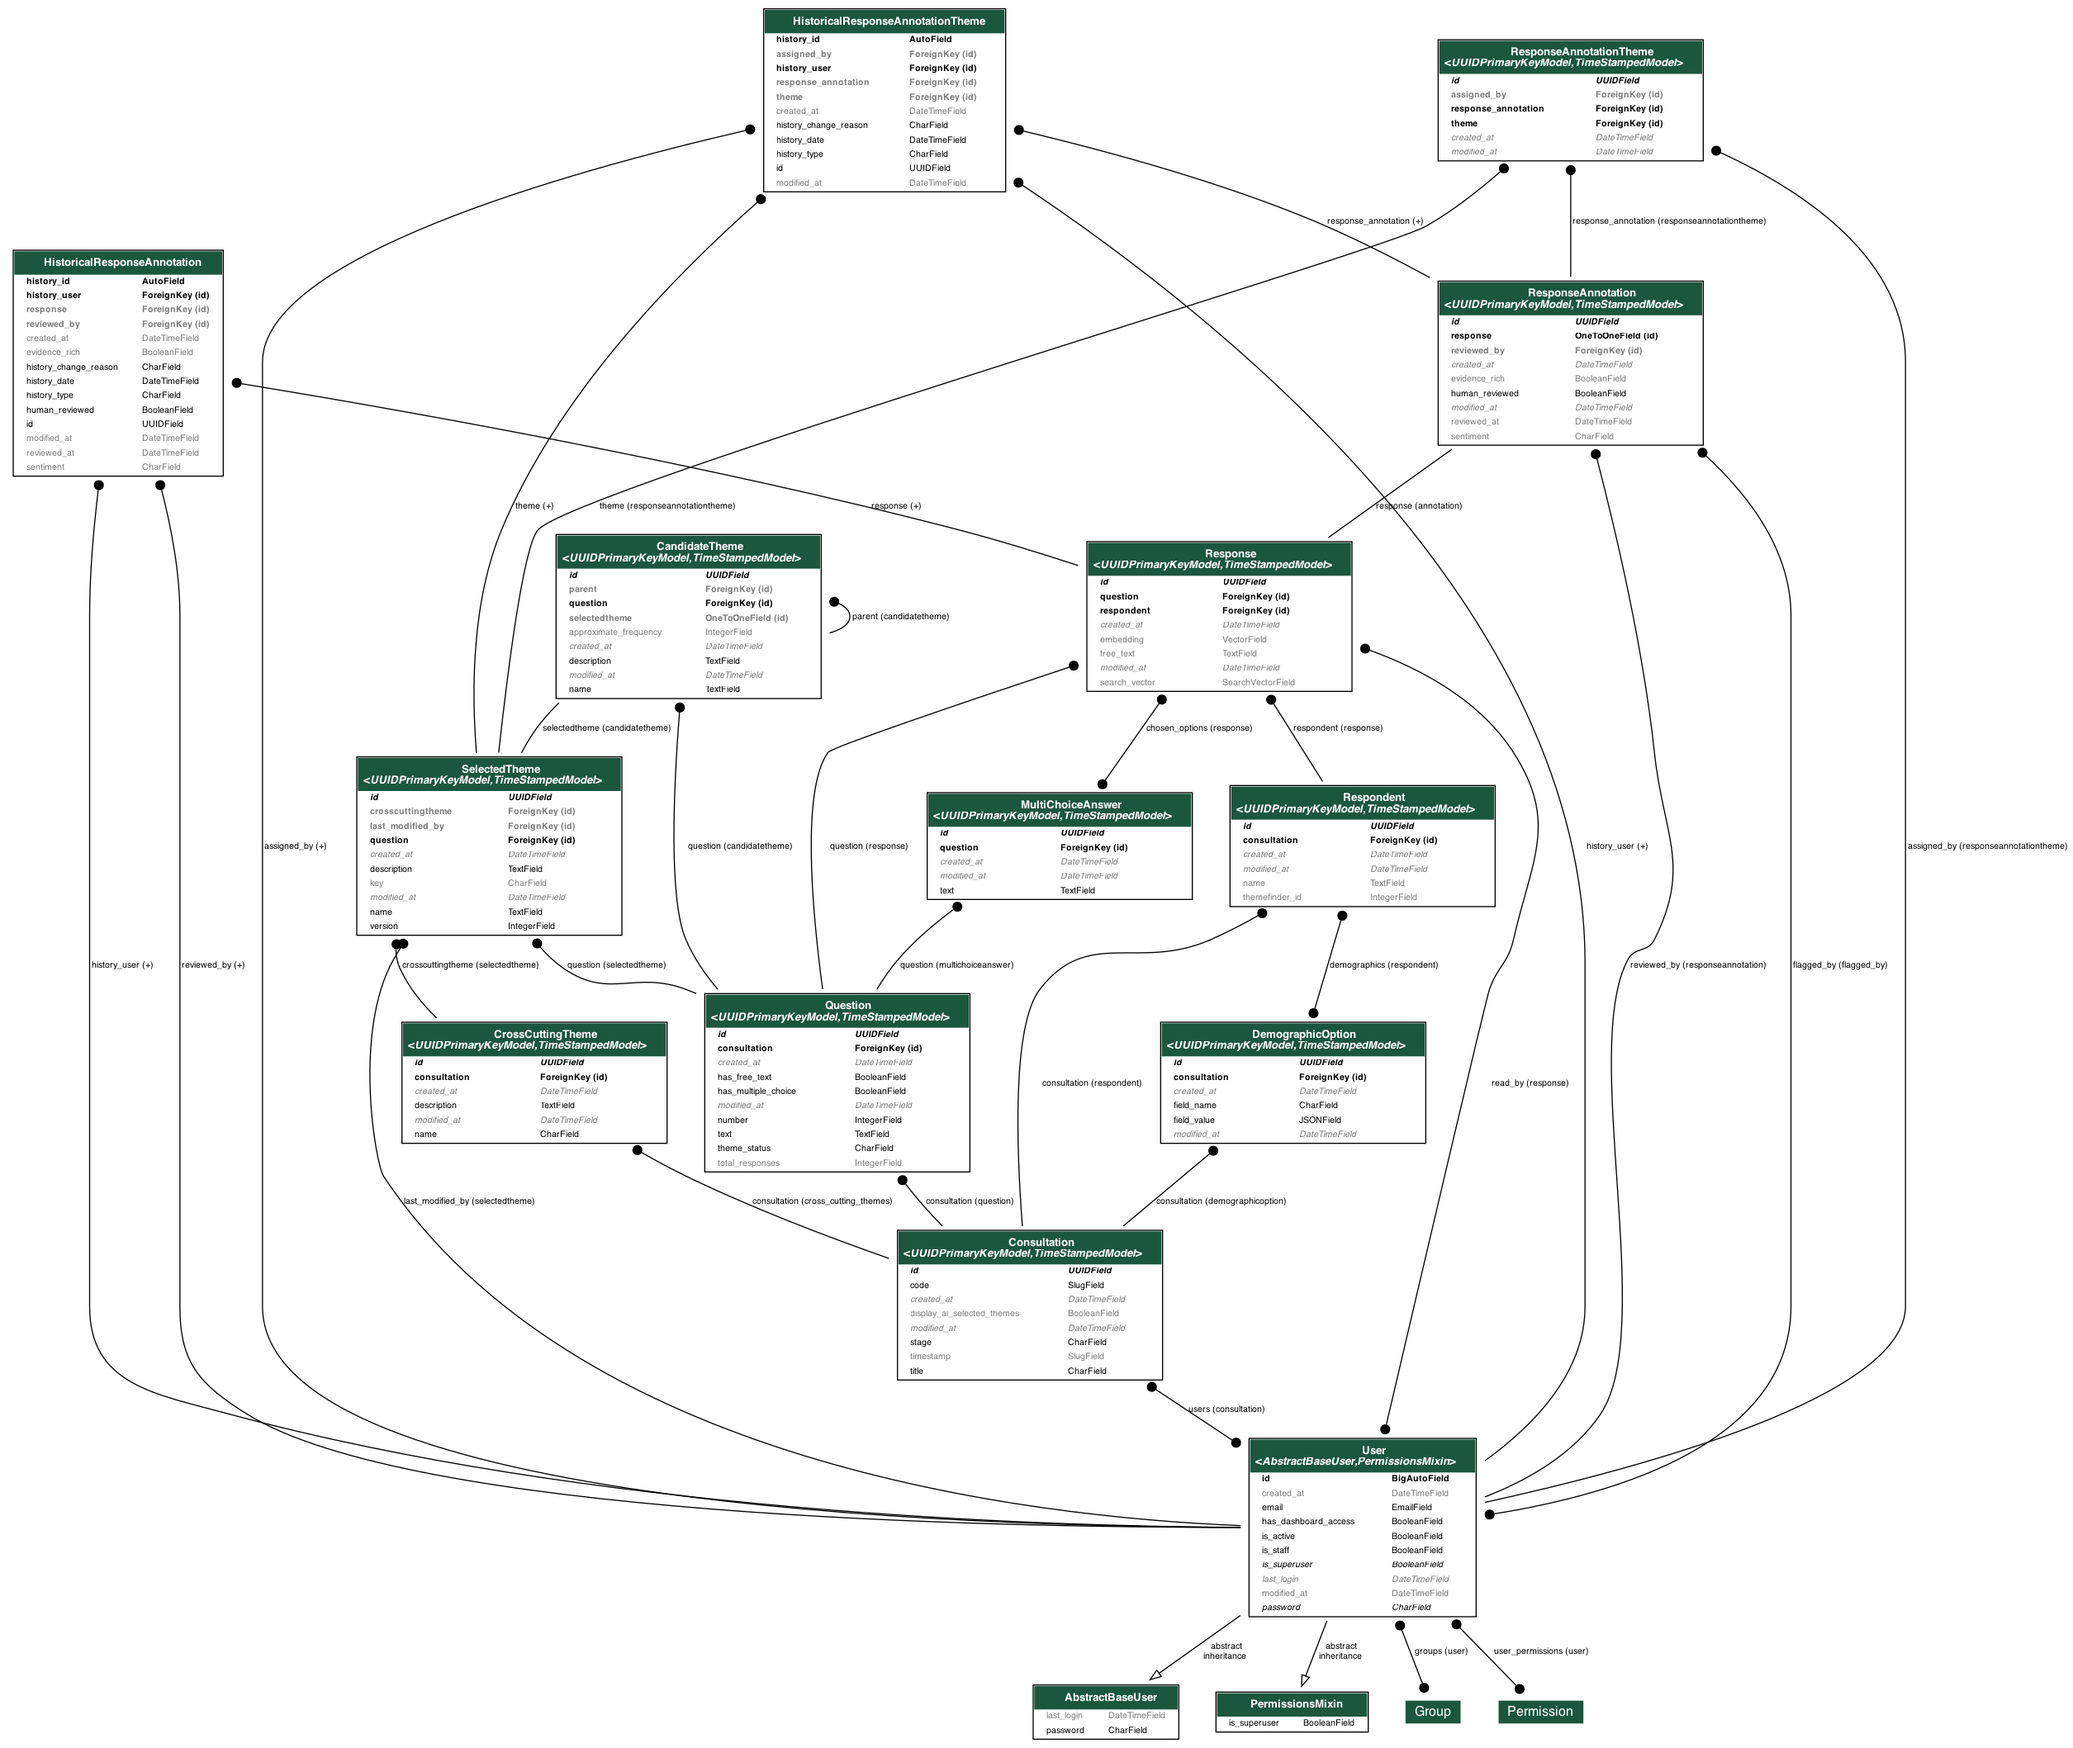
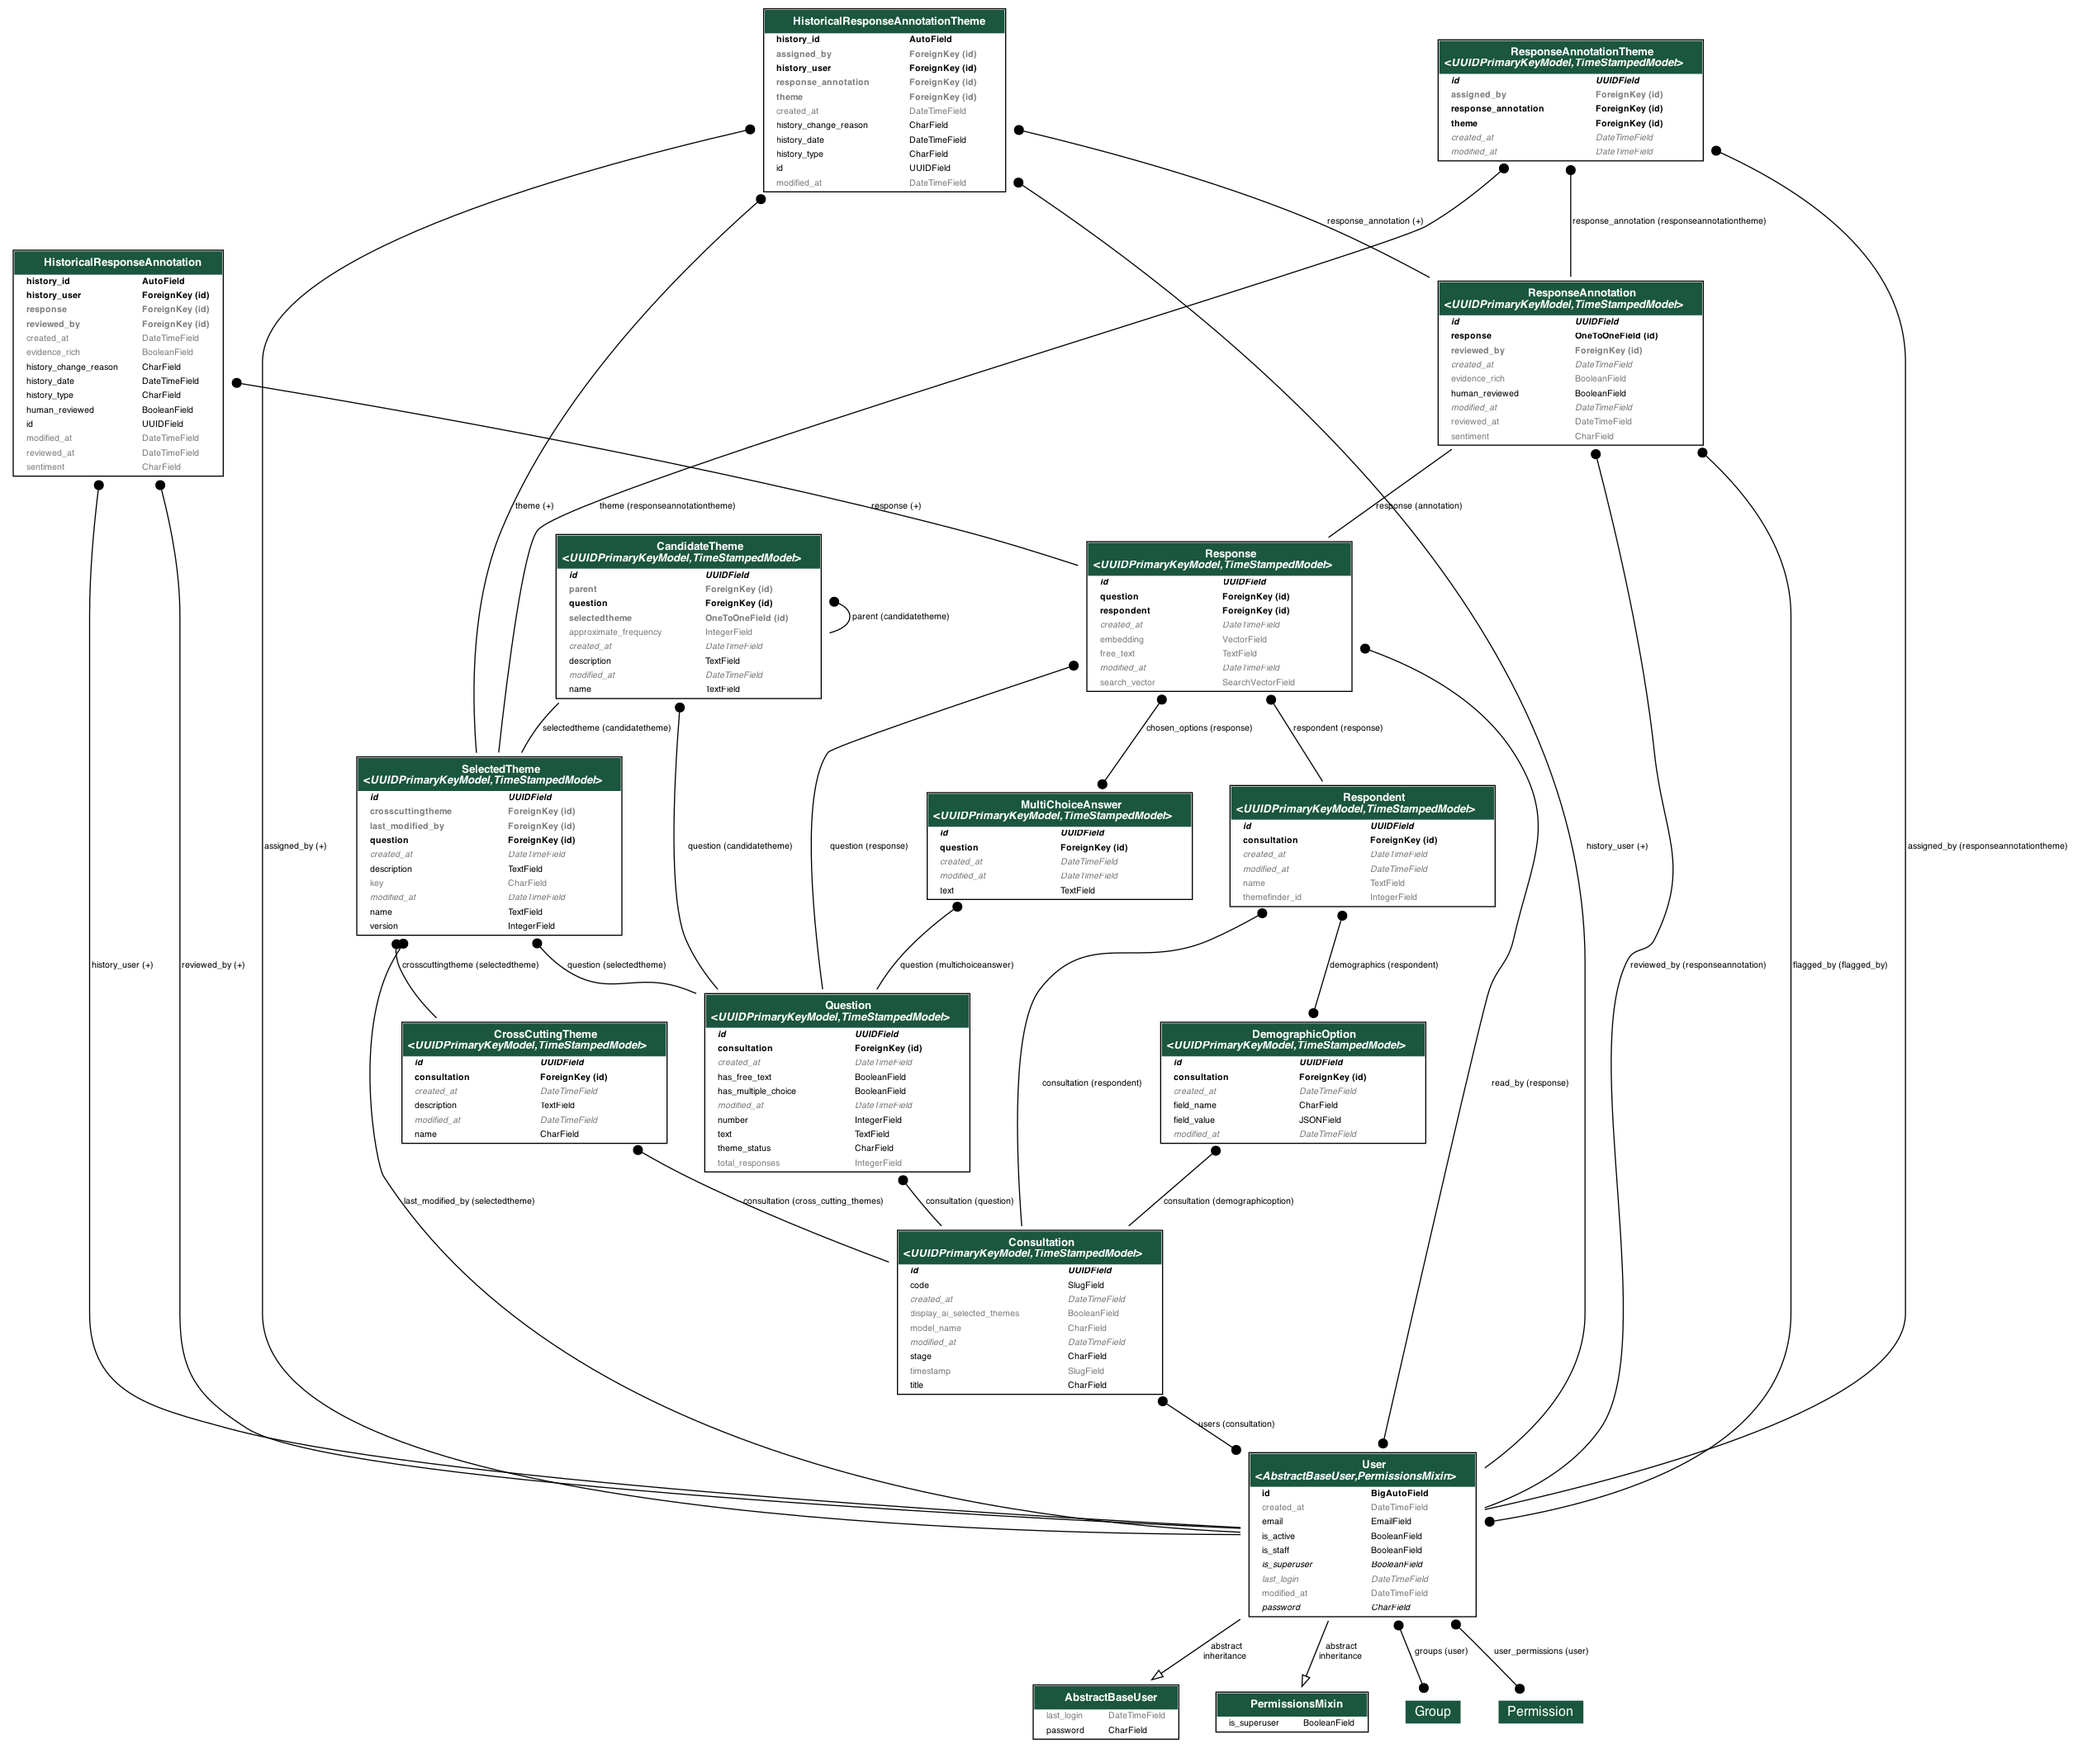
Fix e2e tests: update cookie name and add migrations step
- Fix test to look for 'accessToken' cookie instead of 'gdsInternalAccess'
- Add migrations step to test-end-to-end target
- Pass DATABASE_URL env var directly to docker compose run commands
- Update uv.lock format from optional-dependencies to dev-dependencies
- Regenerate ERD diagram

diff --git a/e2e_tests/tests/home.e2e.ts b/e2e_tests/tests/home.e2e.ts
@@ -25,7 +25,7 @@ test("access cookie is set when page loads", async ({ page }) => {
   await page.goto("/");
   
   const cookies = await page.context().cookies();
-  const accessCookie = cookies.find(cookie => cookie.name === "gdsInternalAccess");
+  const accessCookie = cookies.find(cookie => cookie.name === "accessToken");
   
   expect(accessCookie).toBeDefined();
 });
